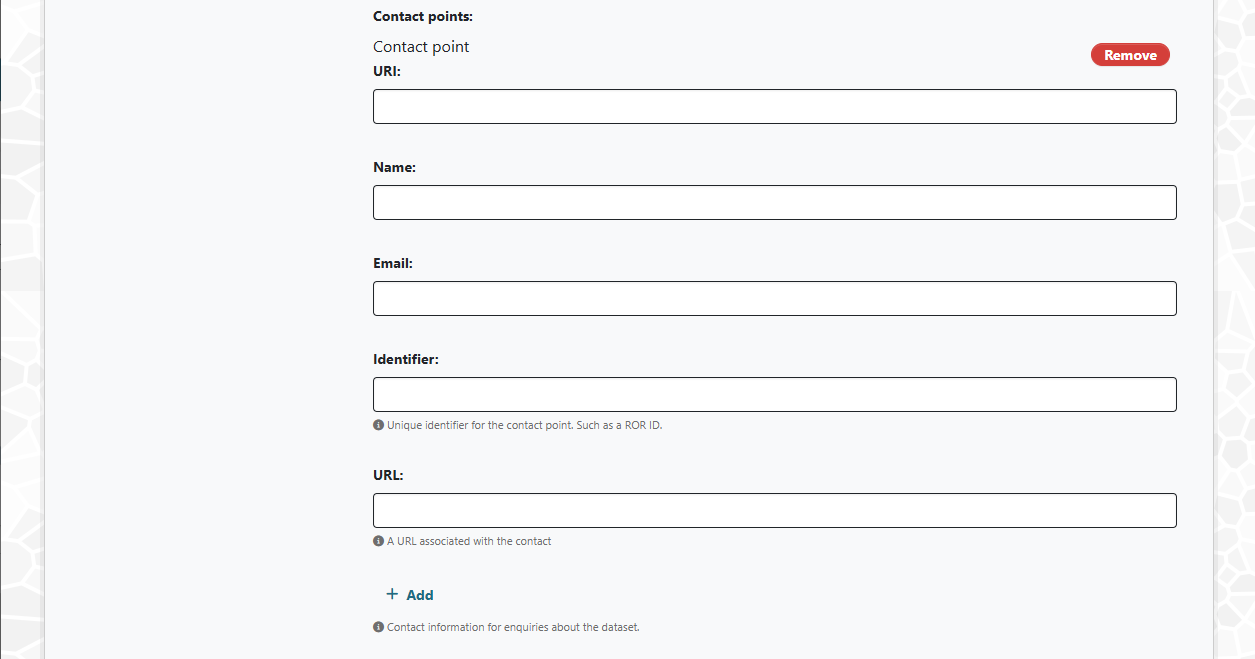
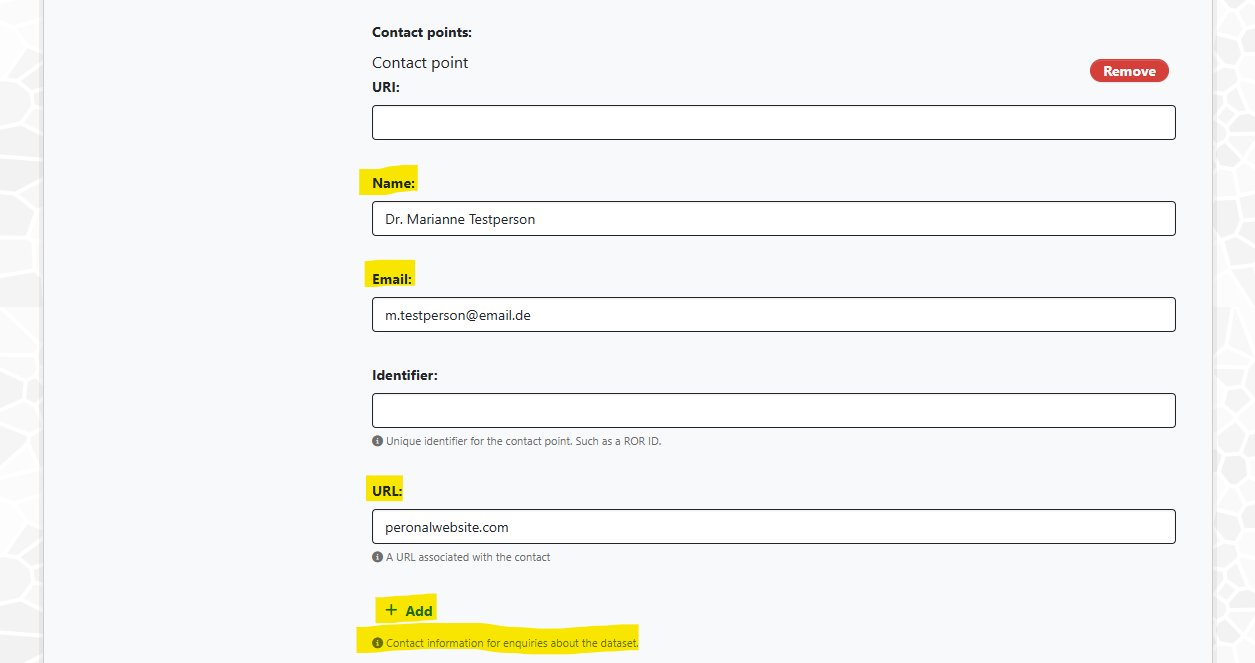
finalize us3

diff --git a/README.md b/README.md
@@ -152,15 +152,16 @@ Right Clicking on Explore and selecting Download either directly starts the down
 If there are any questions in regards to CKAN along the way there is always the chance to explore the CKAN Website, which can either be found here (https://ckan.org/) or at the bottom of the DataPotal page under Powered by ckan.
 ![US1_1](./images/DataPotal_US1_1.png)
 
-### US3:
+### US3: Adding data
 
-> As a registered user, I want to add data to the data portal. I want to make the data accessible to the public and relate the accossiated project, owner and publisher to the dataset to make the data findable and accassible while keeping a clean track of its provenance.
+> As a registered user, I want to add data to the data portal. I want to make the data accessible to the public and relate the associated project, owner and publisher to the data set to make the data findable and accessible while keeping a clean track of its provenance.
 
 **Prerequisites:**
 You need a functional *material-digital Account* for logging in via the single-sign-on.
-Also, you need to be member with at least "Editor" privileges in at least one organisation on the dataportal to add datasets.
+Also, you need to be member with at least "Editor" privileges in at least one organization on the dataportal to add data sets.
+Please note, that you can provide a very detailed description of your data.
+Thus, we will only point to the most important categories of information in this guide.  
 
-#### Add a dataset
 You can start the process of adding data from two places: either, you click on "Datasets" on the top left. Then, above the search bar you find the "Add dataset" button:
 ![US3_1](./images/DataPortal_us3_1.png)
 
@@ -168,28 +169,47 @@ The other way here is to click on "organizations" (right beside "Datasets"), sel
 Then, under "Datasets you fond again the "Add dataset" button.
 ![US3_2](./images/DataPortal_us3_2.png)
 
-After clicking on the button, you are facing a form, where you may fill in various information regarding your dataset.
+After clicking on the button, you are facing a form, where you may fill in various information regarding your data set.
 Note that mandatory information is marked with a red star.
 The associated field must be filled for successfully uploading your data.
 In the following we will only cover a few important options offered here.
 
-##### General information
-A title, a description and some keywords for your dataset. The keywords are later associated with tags under which you can find the dataset.
+#### General information
+A title, a description and some keywords for your data set.
+**The keywords will be associated with tags under which you can find the data set!**.
+You will be provided with suggestions while typing.
+In case there is no matching existing tag, a new one will be created for you.
 ![US3_3](./images/DataPortal_us3_3.png)
 
-##### Correspondence
-Information regarding contact information, like an URI, mailaddress etc. for a contact person.
+#### Correspondence
+Information regarding contact information, like an URI, mail address etc. for a contact person. You may add additional field when necessary.
 ![US3_4](./images/DataPortal_us3_4.png)
-You can also add a *Publisher* and the *Creator* of the dataset:
+You can also add a *Publisher* and the *Creator* of the data set by filling similar fields.
 ![US3_5](./images/DataPortal_us3_5.png)
 ![US3_6](./images/DataPortal_us3_6.png)
 
-##### Micallaneaous information
-Among the following fields, espescially the **license**, the **organization** and the **visibility** are particularly important.
-The organization is mandatory and a dataset cannot be added without filling this field.
-The visibility lets you control whether the dataset is publically visible to anyone on the internet ("Public") or only to registered users of the dataportal ("Private")
+#### Miscellaneous information
+Among the following fields, especially the **license**, the **organization** and the **visibility** are particularly important.
+The organization is mandatory and a data set cannot be added without filling this field.
+The visibility lets you control whether the data set is publicly visible to anyone on the internet ("Public") or only to registered users of the dataportal ("Private")
 ![US3_7](./images/DataPortal_us3_7.png)
 
 ##### Release and version information
-Of course you can also add a relaease date, modification date, a version number (including further version notes), a release frequency and more information on the dataset's provenance.
+Of course you can also add a release date, modification date, a version number (including further version notes), a release frequency and more information on the data set's provenance.
 ![US3_8](./images/DataPortal_us3_8.png)
+
+### Adding the data and associated files
+Now you will be guided through the process of adding all files associated with your data set.
+![US3_9](./images/DataPortal_us3_9.png)
+You can either add single files and provide a detailed description on their contents.
+You can add a wide variety of information such as a name for the file, its mime-type, size, license, URL to only resources, creation date etc.
+You can provide files via upload from your local drive or by providing a link to an online resource.
+You can also provide tabular data by using the "Table Designer".
+Fields that are not filled by hand may be filled with auto-generated, default values.
+After providing the information for a file, you are offered the option to add further files and provide their details.
+![US3_10](./images/DataPortal_us3_10.png)
+You can also select the "Multi Upload" option and add files via drag-and-drop.
+![US3_11](./images/DataPortal_us3_11.png)
+In the end you can click on "finish".
+The upload is complete and you are confronted with the overview-page of your data set.
+![US3_12](./images/DataPortal_us3_12.png)
